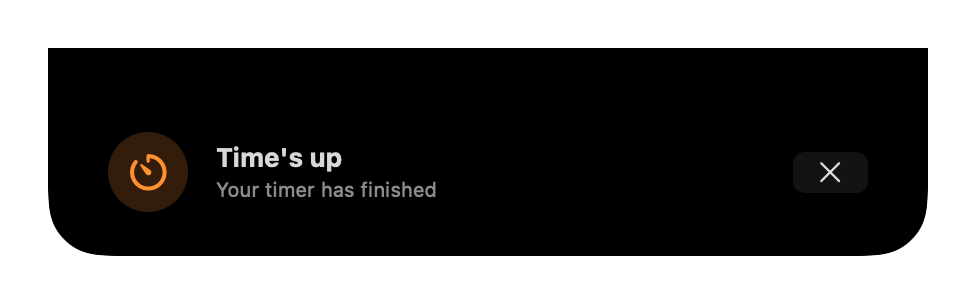
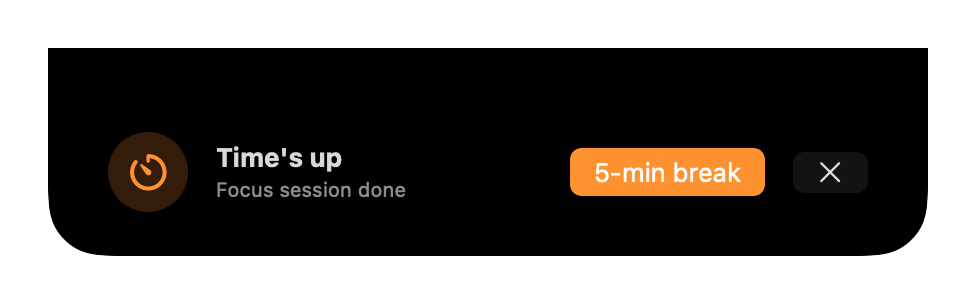
Timer: fixes from review
- "Time's up" waits if a meeting reminder is showing, and its 10 seconds
  start once it's actually on screen, so it can't be swallowed
- The countdown is also checked every second, so after sleep it ends on
  time instead of sitting at 0:00 until the run-loop timer catches up
- If the pointer is still on the notch when "Time's up" goes, the panel
  opens again
- Countdown display ticks four times a second to stay in step; a
  finished break says "Break's over"; resume only from paused
- Timer service tests with a hand-moved clock; screenshot shows the
  break button; doc comment and README spacing fixed

Changed region(s): [[0.584, 0.4737, 0.7992, 0.6513], [0.2152, 0.5921, 0.4611, 0.6513]]

diff --git a/Sources/Notch/TimerService.swift b/Sources/Notch/TimerService.swift
@@ -3,41 +3,52 @@ import AppKit
 /// The countdown timer behind the Timer tab, the compact countdown and the "Time's up" popup.
 @MainActor
 final class TimerService: ObservableObject {
-    /// How long "Time's up" stays unless dismissed.
+    /// How long "Time's up" stays once it's on screen, unless dismissed.
     static let doneShowsFor: TimeInterval = 10
 
     @Published private(set) var countdown = Countdown()
-    /// "Time's up" is showing; `doneOffersBreak` when it was a Pomodoro.
+    /// "Time's up" is waiting to show or showing. It stays until it has been on screen for
+    /// `doneShowsFor` or is dismissed, so a meeting reminder that's up at the time can't swallow it.
     @Published private(set) var doneShowing = false
+    /// The finished timer was a focus session (offer a break) or the break itself.
     @Published private(set) var doneOffersBreak = false
+    @Published private(set) var doneWasBreak = false
 
     /// Something changed that affects what the notch shows (started, stopped, finished, popup gone).
     var onChange: (() -> Void)?
 
+    private let now: () -> Date
+    private let chime: () -> Void
+    private var onBreak = false
     private var endTimer: Timer?
     private var doneTimer: Timer?
 
-    func start(minutes: Int) {
-        dismissDone()
-        countdown.start(minutes: minutes, now: Date())
-        scheduleEnd()
-        onChange?()
+    /// `now` and `chime` are swappable for tests.
+    init(now: @escaping () -> Date = Date.init, chime: @escaping () -> Void = { NSSound(named: "Glass")?.play() }) {
+        self.now = now
+        self.chime = chime
     }
 
+    func start(minutes: Int) { begin(minutes: minutes, isBreak: false) }
+
+    /// From the popup: start the 5-minute break after a focus session.
+    func startBreak() { begin(minutes: Countdown.breakMinutes, isBreak: true) }
+
     func pause() {
-        countdown.pause(now: Date())
+        countdown.pause(now: now())
         endTimer?.invalidate()
         onChange?()
     }
 
     func resume() {
-        countdown.resume(now: Date())
+        guard countdown.isPaused else { return }
+        countdown.resume(now: now())
         scheduleEnd()
         onChange?()
     }
 
     func addMinute() {
-        countdown.addMinute(now: Date())
+        countdown.addMinute(now: now())
         if countdown.isRunning { scheduleEnd() }
         onChange?()
     }
@@ -48,38 +59,58 @@ final class TimerService: ObservableObject {
         onChange?()
     }
 
-    /// From the popup: start the 5-minute break after a Pomodoro.
-    func startBreak() { start(minutes: Countdown.breakMinutes) }
-
     func dismissDone() {
         doneTimer?.invalidate()
+        doneTimer = nil
         guard doneShowing else { return }
         doneShowing = false
         onChange?()
     }
 
+    /// Called once "Time's up" is actually on screen: from then it stays for `doneShowsFor`.
+    func doneAppeared() {
+        guard doneShowing, doneTimer == nil else { return }
+        let timer = Timer(timeInterval: Self.doneShowsFor, repeats: false) { [weak self] _ in
+            MainActor.assumeIsolated { self?.dismissDone() }
+        }
+        RunLoop.main.add(timer, forMode: .common)
+        doneTimer = timer
+    }
+
+    /// Ends the timer if its time is up. Run every second as well as from the end timer, because
+    /// run-loop timers don't count time while the Mac sleeps.
+    func checkFinished() {
+        guard countdown.isRunning, countdown.isFinished(at: now()) else { return }
+        finish()
+    }
+
+    private func begin(minutes: Int, isBreak: Bool) {
+        dismissDone()
+        onBreak = isBreak
+        countdown.start(minutes: minutes, now: now())
+        scheduleEnd()
+        onChange?()
+    }
+
     private func scheduleEnd() {
         endTimer?.invalidate()
-        let left = countdown.remaining(at: Date())
+        let left = countdown.remaining(at: now())
         let timer = Timer(timeInterval: left, repeats: false) { [weak self] _ in
-            MainActor.assumeIsolated { self?.finish() }
+            MainActor.assumeIsolated { self?.checkFinished() }
         }
         RunLoop.main.add(timer, forMode: .common)   // keeps time while the menu bar menu is open
         endTimer = timer
     }
 
     private func finish() {
-        guard countdown.isFinished(at: Date().addingTimeInterval(0.05)) else { scheduleEnd(); return }
-        doneOffersBreak = countdown.offersBreak
+        endTimer?.invalidate()
+        doneOffersBreak = !onBreak && countdown.offersBreak
+        doneWasBreak = onBreak
         countdown.stop()
-        doneShowing = true
-        NSSound(named: "Glass")?.play()
         doneTimer?.invalidate()
-        let timer = Timer(timeInterval: Self.doneShowsFor, repeats: false) { [weak self] _ in
-            MainActor.assumeIsolated { self?.dismissDone() }
-        }
-        RunLoop.main.add(timer, forMode: .common)
-        doneTimer = timer
+        doneTimer = nil
+        doneShowing = true
+        chime()
         onChange?()
     }
 }

diff --git a/Tests/NotchTests/TimerServiceTests.swift b/Tests/NotchTests/TimerServiceTests.swift
@@ -1,0 +1,71 @@
+import Foundation
+import Testing
+@testable import Notch
+
+/// A clock the test moves by hand.
+@MainActor
+private final class FakeClock {
+    var now = Date(timeIntervalSince1970: 1_800_000_000)
+    func advance(_ seconds: TimeInterval) { now = now.addingTimeInterval(seconds) }
+}
+
+@MainActor
+private func makeTimer() -> (TimerService, FakeClock) {
+    let clock = FakeClock()
+    return (TimerService(now: { clock.now }, chime: {}), clock)
+}
+
+@MainActor @Test func endsWhenTheTimeIsUpEvenIfTheEndTimerWasLate() {
+    // After sleep the run-loop timer fires late; the regular check still ends it on time.
+    let (timer, clock) = makeTimer()
+    timer.start(minutes: 5)
+    clock.advance(5 * 60)
+    timer.checkFinished()
+    #expect(timer.doneShowing)
+    #expect(!timer.countdown.isActive)
+}
+
+@MainActor @Test func doesntEndEarly() {
+    let (timer, clock) = makeTimer()
+    timer.start(minutes: 5)
+    clock.advance(5 * 60 - 1)
+    timer.checkFinished()
+    #expect(!timer.doneShowing)
+    #expect(timer.countdown.isRunning)
+}
+
+@MainActor @Test func timesUpWaitsUntilItsBeenShown() {
+    // If a meeting reminder is up when the timer ends, "Time's up" must still be there afterwards.
+    let (timer, clock) = makeTimer()
+    timer.start(minutes: 5)
+    clock.advance(5 * 60 + 30)
+    timer.checkFinished()
+    clock.advance(60)
+    timer.checkFinished()
+    #expect(timer.doneShowing)
+}
+
+@MainActor @Test func aFocusSessionOffersABreakAndTheBreakSaysSo() {
+    let (timer, clock) = makeTimer()
+    timer.start(minutes: 25)
+    clock.advance(25 * 60)
+    timer.checkFinished()
+    #expect(timer.doneOffersBreak)
+    #expect(!timer.doneWasBreak)
+    timer.startBreak()
+    #expect(!timer.doneShowing)
+    clock.advance(5 * 60)
+    timer.checkFinished()
+    #expect(timer.doneShowing)
+    #expect(timer.doneWasBreak)
+    #expect(!timer.doneOffersBreak)
+}
+
+@MainActor @Test func aPausedTimerDoesntEnd() {
+    let (timer, clock) = makeTimer()
+    timer.start(minutes: 5)
+    timer.pause()
+    clock.advance(3600)
+    timer.checkFinished()
+    #expect(!timer.doneShowing)
+}

diff --git a/Sources/Notch/TimerViews.swift b/Sources/Notch/TimerViews.swift
@@ -33,12 +33,11 @@ struct TimerTabView: View {
     }
 
     private var running: some View {
-        TimelineView(.periodic(from: .now, by: 1)) { context in
+        TimelineView(.periodic(from: .now, by: 0.25)) { context in   // often enough to stay in step with the end
             VStack(spacing: 12) {
                 Text(Countdown.clock(timer.countdown.remaining(at: context.date)))
                     .font(.system(size: 40, weight: .semibold, design: .rounded).monospacedDigit())
                     .foregroundStyle(timer.countdown.isPaused ? .secondary : .primary)
-                    .contentTransition(.numericText(countsDown: true))
                 HStack(spacing: 10) {
                     if timer.countdown.isPaused {
                         control("Resume", "play.fill") { timer.resume() }
@@ -79,7 +78,7 @@ struct TimerDoneView: View {
             .frame(width: 40, height: 40)
             VStack(alignment: .leading, spacing: 2) {
                 Text("Time's up").font(.headline)
-                Text(timer.doneOffersBreak ? "Focus session done" : "Your timer has finished")
+                Text(timer.doneWasBreak ? "Break's over" : timer.doneOffersBreak ? "Focus session done" : "Your timer has finished")
                     .font(.caption).foregroundStyle(.secondary)
             }
             Spacer(minLength: 20)
@@ -112,7 +111,7 @@ struct TimerCompactSide: View {
                 .font(.system(size: 12, weight: .bold))
                 .foregroundStyle(timer.countdown.isPaused ? .secondary : Color.orange)
         case .trailing:
-            TimelineView(.periodic(from: .now, by: 1)) { context in
+            TimelineView(.periodic(from: .now, by: 0.25)) { context in
                 Text(Countdown.clock(timer.countdown.remaining(at: context.date)))
                     .font(.system(size: 12, weight: .semibold).monospacedDigit())
                     .foregroundStyle(timer.countdown.isPaused ? .secondary : Color.orange)

diff --git a/Sources/Notch/NotchController.swift b/Sources/Notch/NotchController.swift
@@ -62,7 +62,12 @@ final class NotchController {
         self.battery = battery
         self.clipboard = clipboard
         self.timerService = timer
-        timer.onChange = { [weak self] in self?.evaluate() }
+        timer.onChange = { [weak self] in
+            guard let self else { return }
+            evaluate()
+            // Hover was ignored while "Time's up" showed; if the pointer is still on the notch, open the panel.
+            if !timerService.doneShowing, notch?.isHovering == true { hoverChanged(true) }
+        }
         battery.onAlert = { [weak self] alert in self?.flashBattery(alert) }
         calendar.onUpdate = { [weak self] in self?.evaluate() }
         music.onChange = { [weak self] in self?.evaluate() }
@@ -107,7 +112,10 @@ final class NotchController {
 
         // Local tick only: starts/ends the meeting popup at the right second.
         timer = Timer.scheduledTimer(withTimeInterval: 1, repeats: true) { [weak self] _ in
-            MainActor.assumeIsolated { self?.evaluate() }
+            MainActor.assumeIsolated {
+                self?.timerService.checkFinished()   // catches a countdown that ended while the Mac slept
+                self?.evaluate()
+            }
         }
     }
 
@@ -257,6 +265,7 @@ final class NotchController {
         case .timerDone:
             state.content = .timerDone
             await notch?.expand(on: screen)
+            timerService.doneAppeared()   // its 10 seconds start now it's actually on screen
         }
         keepKeyboardInFrontApp()
     }

diff --git a/Tests/NotchTests/Screenshots.swift b/Tests/NotchTests/Screenshots.swift
@@ -99,7 +99,13 @@ struct Screenshots {
         timer.start(minutes: 25)
         try save(notchShape(panel()), as: "timer-running.png")
         timer.stop()
-        try save(notchShape(TimerDoneView(timer: timer)), as: "timer-done.png")
+        // A finished focus session, so the popup shows its break button.
+        var clock = Date()
+        let finished = TimerService(now: { clock }, chime: {})
+        finished.start(minutes: 25)
+        clock = clock.addingTimeInterval(25 * 60)
+        finished.checkFinished()
+        try save(notchShape(TimerDoneView(timer: finished)), as: "timer-done.png")
     }
 
     /// The hover panel on one tab, with calendar data that doesn't come from the real calendar.

diff --git a/Sources/Notch/HoverPanelView.swift b/Sources/Notch/HoverPanelView.swift
@@ -1,7 +1,7 @@
 import SwiftUI
 
-/// What opens when you hover the notch: Music, Clipboard and Today tabs.
-/// All three tabs always show, in the same places, and the panel keeps one size on every tab.
+/// What opens when you hover the notch: Music, Clipboard, Today and Timer tabs.
+/// All four tabs always show, in the same places, and the panel keeps one size on every tab.
 struct HoverPanelView: View {
     @ObservedObject var state: NotchState
     @ObservedObject var music: MusicService

diff --git a/README.md b/README.md
@@ -60,7 +60,6 @@ A small macOS menu bar app that puts your next meeting and what's playing on Spo
   - Also skips copies from your iPhone (Universal Clipboard) and very large copies (over a million characters).
   - Turn it off, or clear it, from the menu bar.
 - **Today**: the meeting in progress (**Now**), the **Next** one with a countdown like "in 1h 20m", and up to three more, each with its calendar's colour and a **Join** button where there's a link. "No more meetings today" when your day is done.
-
 - **Timer**: start a **5, 15, 25 or 45-minute** timer. While it runs, the time left shows beside the notch, and the tab has **Pause**, **+1 min** and **Stop**.
   - When it ends, the notch drops down with **Time's up** and a chime for 10 seconds.
   - The 25-minute one is a **focus session**: when it ends, there's a button to start a **5-minute break**.
